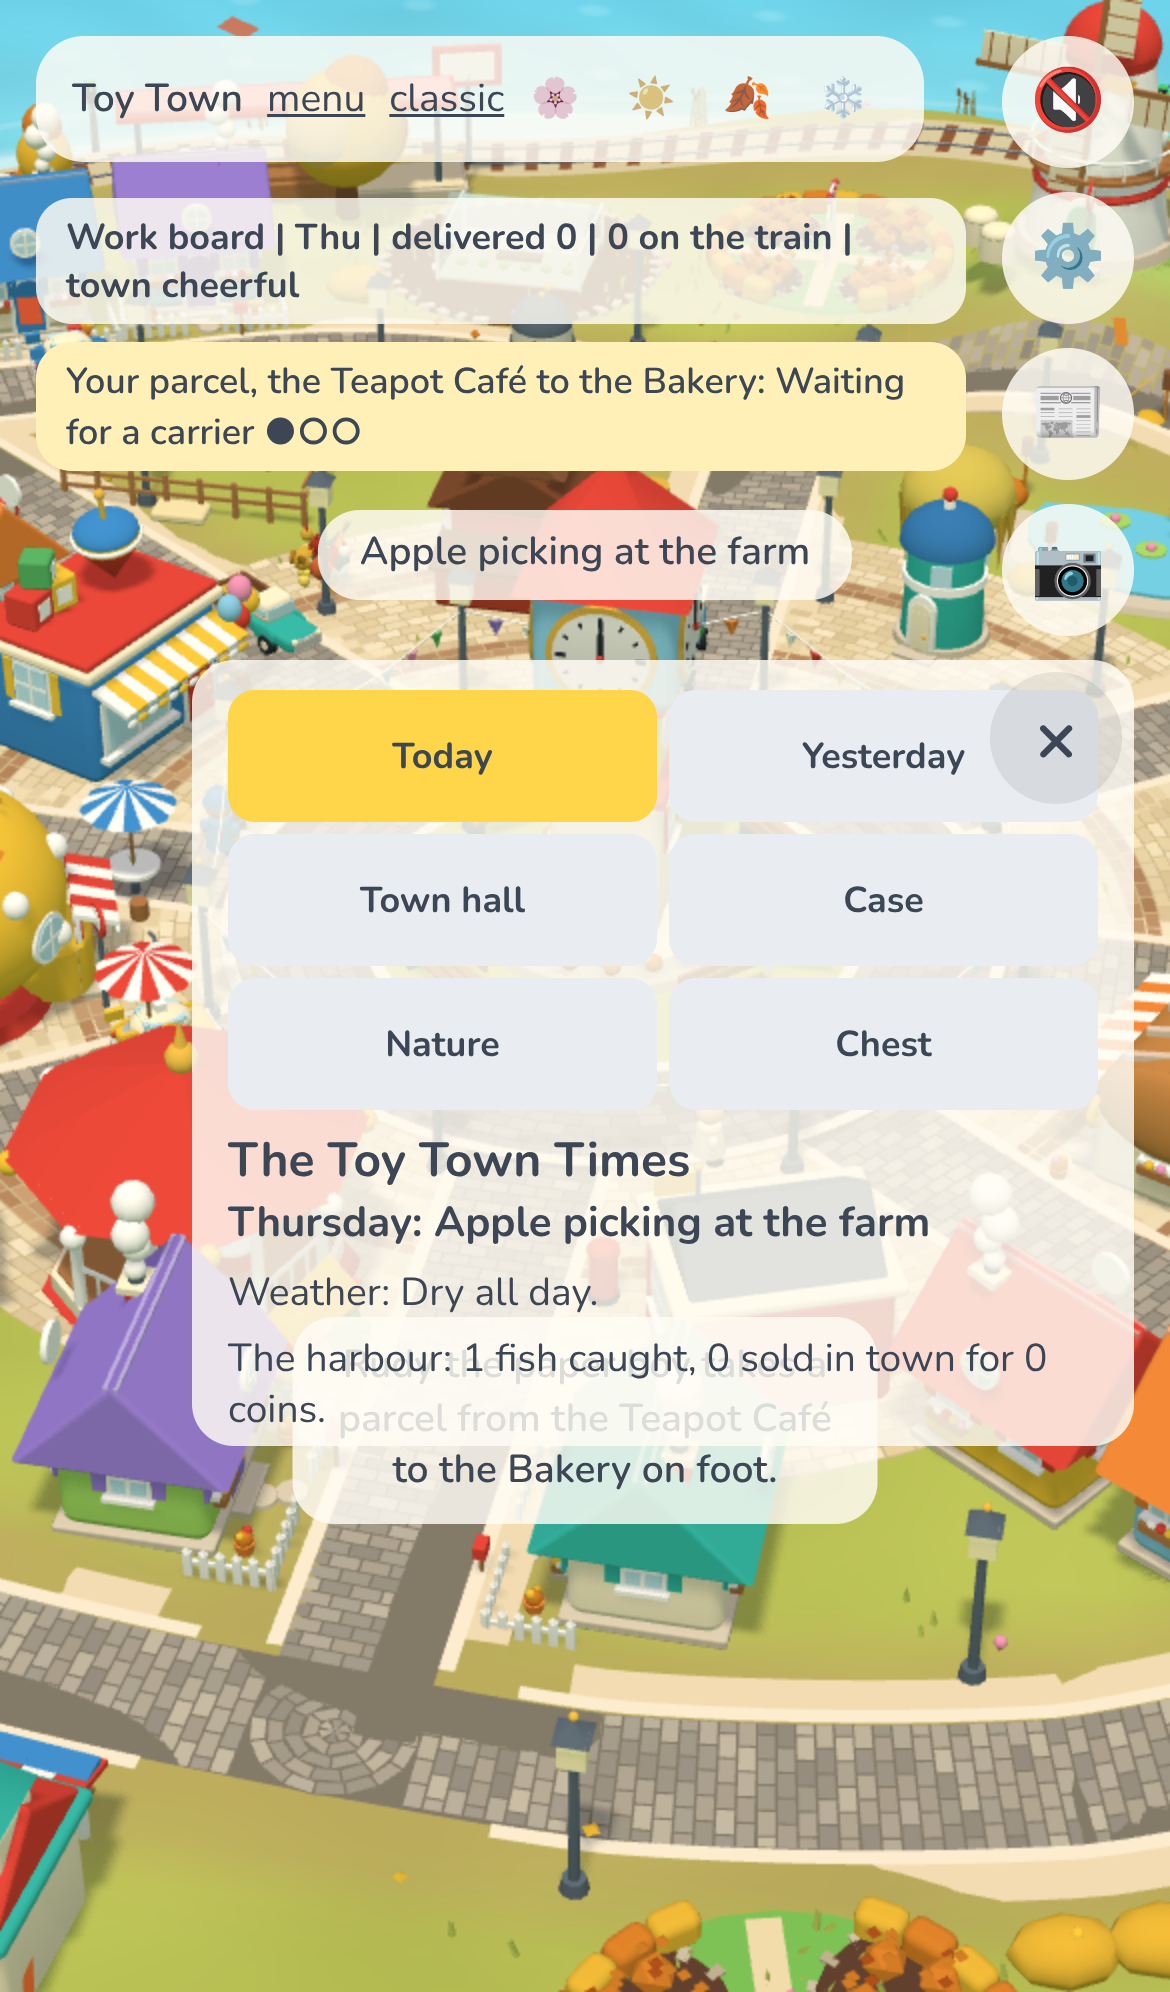
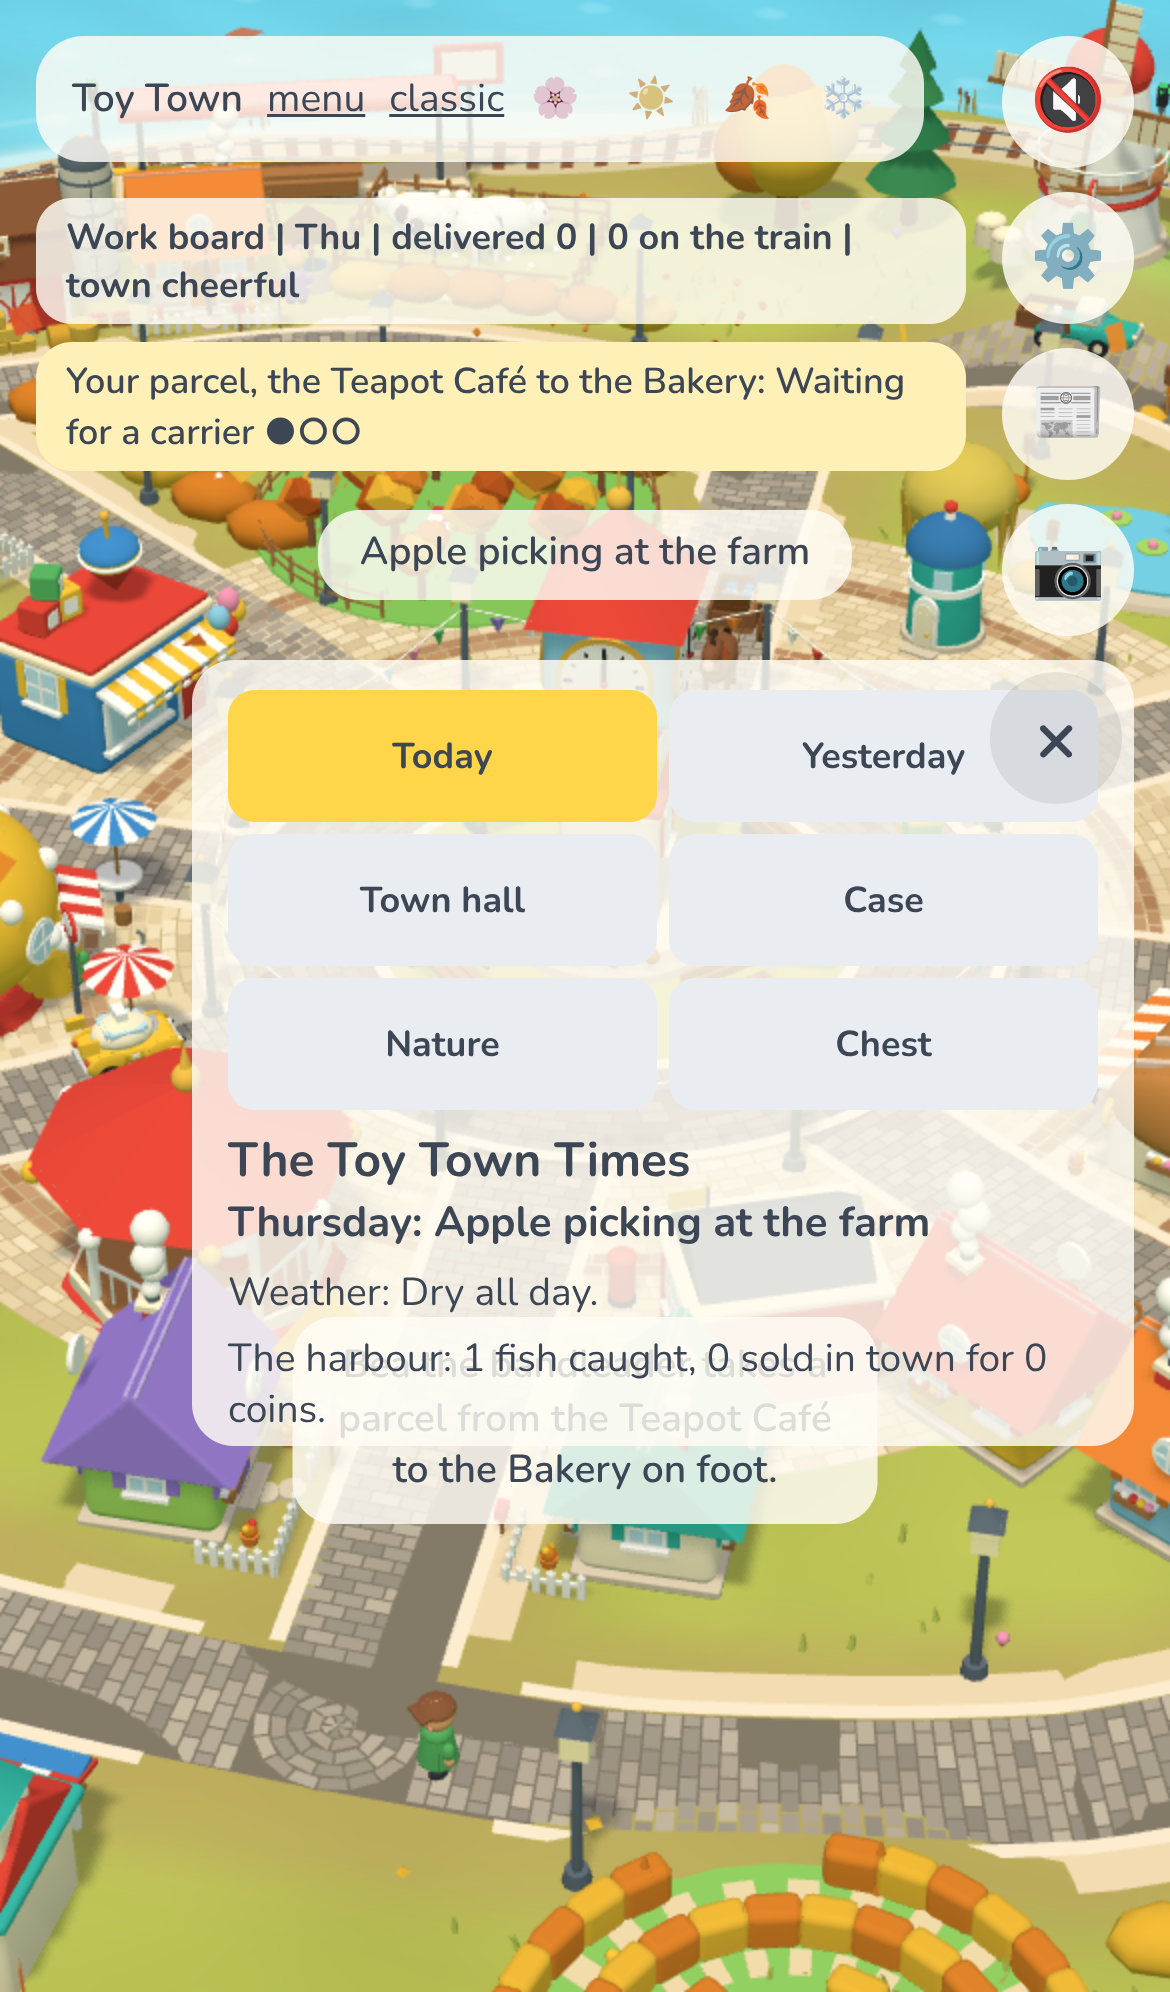
Toy Town Storybook: 10% smaller places, farm outside the town, seven varied gardens (#247)
* docs(toy-town): Claude START — fps readout and a day in the life

Claude-Session: https://claude.ai/code/session_016DDzLFPb4BuxMAThu2pji2

* Toy Town: a day in the life and a ?fps readout

- Hour of day from the town clock; morning commuters (briefcases) and children in pairs (smaller, backpacks) leave homes for the edge of town; lunch diners eat at the café tables; evening residents walk home and go in; porch lamps light after dusk once someone is home; ticker notes each part of the day. At most 8 scheduled walkers.
- ?fps overlay: fps, draw ms, render pixel ratio.
- Cache keys sim v30, 3D v49, embed v59.

Claude-Session: https://claude.ai/code/session_016DDzLFPb4BuxMAThu2pji2

* Toy Town: keep the day's walkers under the cap when children set off in pairs

Claude-Session: https://claude.ai/code/session_016DDzLFPb4BuxMAThu2pji2

* docs(toy-town): Claude START — follow a resident, feed the ducks, gentle sound

Claude-Session: https://claude.ai/code/session_016DDzLFPb4BuxMAThu2pji2

* docs(toy-town): Claude DONE — a day in the life and ?fps

Claude-Session: https://claude.ai/code/session_016DDzLFPb4BuxMAThu2pji2

* Toy Town: follow a resident, feed the ducks, gentle opt-in sound

- Press and hold a resident (mouse or touch, ~0.5 s) to follow them: the camera keeps them centred; a card shows a stable first name, their role and what they are doing; drag or ✕ stops.
- Tap the river: crumbs scatter and the ducks paddle over (they stay on the water).
[…]

diff --git a/toy-town-new.html b/toy-town-new.html
@@ -81,47 +81,47 @@ html.ui-off #set,html.ui-off #panel,html.ui-off #paperBtn,html.ui-off #photoBtn,
 #dbg{position:fixed;left:calc(8px + env(safe-area-inset-left,0px));bottom:calc(8px + env(safe-area-inset-bottom,0px));padding:3px 8px;border-radius:8px;background:rgba(0,0,0,.6);color:#fff;font:600 11px/1.3 ui-monospace,Menlo,Consolas,monospace;pointer-events:none;z-index:9}
 html.ui-off #stack,html.ui-off #jobs,html.ui-off #toast,html.ui-off #snd,html.ui-off #chip,html.ui-off #hint,html.ui-off #story,html.ui-off #card{display:none}
 </style>
-<script type="importmap" data-stamp="202dd8a203">
+<script type="importmap" data-stamp="fa706e2c50">
 {"imports":{
   "three":"https://cdn.jsdelivr.net/npm/three@0.187.0/build/three.module.js",
   "three/addons/":"https://cdn.jsdelivr.net/npm/three@0.187.0/examples/jsm/",
-  "./assets/town2/angling.mjs":"./assets/town2/angling.mjs?v=202dd8a203",
-  "./assets/town2/build.mjs":"./assets/town2/build.mjs?v=202dd8a203",
-  "./assets/town2/chest.mjs":"./assets/town2/chest.mjs?v=202dd8a203",
-  "./assets/town2/curve.mjs":"./assets/town2/curve.mjs?v=202dd8a203",
-  "./assets/town2/def.mjs":"./assets/town2/def.mjs?v=202dd8a203",
-  "./assets/town2/ecology.mjs":"./assets/town2/ecology.mjs?v=202dd8a203",
-  "./assets/town2/events.mjs":"./assets/town2/events.mjs?v=202dd8a203",
-  "./assets/town2/festival.mjs":"./assets/town2/festival.mjs?v=202dd8a203",
-  "./assets/town2/festscene.mjs":"./assets/town2/festscene.mjs?v=202dd8a203",
-  "./assets/town2/gait.mjs":"./assets/town2/gait.mjs?v=202dd8a203",
-  "./assets/town2/garden.mjs":"./assets/town2/garden.mjs?v=202dd8a203",
-  "./assets/town2/graph.mjs":"./assets/town2/graph.mjs?v=202dd8a203",
-  "./assets/town2/inspect.mjs":"./assets/town2/inspect.mjs?v=202dd8a203",
-  "./assets/town2/limbs.mjs":"./assets/town2/limbs.mjs?v=202dd8a203",
-  "./assets/town2/lives.mjs":"./assets/town2/lives.mjs?v=202dd8a203",
-  "./assets/town2/memory.mjs":"./assets/town2/memory.mjs?v=202dd8a203",
-  "./assets/town2/mystery.mjs":"./assets/town2/mystery.mjs?v=202dd8a203",
-  "./assets/town2/nature.mjs":"./assets/town2/nature.mjs?v=202dd8a203",
-  "./assets/town2/needs.mjs":"./assets/town2/needs.mjs?v=202dd8a203",
-  "./assets/town2/paper.mjs":"./assets/town2/paper.mjs?v=202dd8a203",
-  "./assets/town2/quality.mjs":"./assets/town2/quality.mjs?v=202dd8a203",
-  "./assets/town2/saga.mjs":"./assets/town2/saga.mjs?v=202dd8a203",
-  "./assets/town2/sail.mjs":"./assets/town2/sail.mjs?v=202dd8a203",
-  "./assets/town2/settings.mjs":"./assets/town2/settings.mjs?v=202dd8a203",
-  "./assets/town2/sim.mjs":"./assets/town2/sim.mjs?v=202dd8a203",
-  "./assets/town2/sky.mjs":"./assets/town2/sky.mjs?v=202dd8a203",
-  "./assets/town2/smoke.mjs":"./assets/town2/smoke.mjs?v=202dd8a203",
-  "./assets/town2/sound.mjs":"./assets/town2/sound.mjs?v=202dd8a203",
-  "./assets/town2/stories.mjs":"./assets/town2/stories.mjs?v=202dd8a203",
-  "./assets/town2/track.mjs":"./assets/town2/track.mjs?v=202dd8a203",
-  "./assets/town2/treasure.mjs":"./assets/town2/treasure.mjs?v=202dd8a203",
-  "./assets/town2/vote.mjs":"./assets/town2/vote.mjs?v=202dd8a203",
-  "./assets/town2/weather.mjs":"./assets/town2/weather.mjs?v=202dd8a203",
-  "./assets/town2/weather3d.mjs":"./assets/town2/weather3d.mjs?v=202dd8a203",
-  "./assets/town2/wild3d.mjs":"./assets/town2/wild3d.mjs?v=202dd8a203",
-  "./assets/town2/wildlife.mjs":"./assets/town2/wildlife.mjs?v=202dd8a203",
-  "./assets/town2/wildscene.mjs":"./assets/town2/wildscene.mjs?v=202dd8a203"
+  "./assets/town2/angling.mjs":"./assets/town2/angling.mjs?v=fa706e2c50",
+  "./assets/town2/build.mjs":"./assets/town2/build.mjs?v=fa706e2c50",
+  "./assets/town2/chest.mjs":"./assets/town2/chest.mjs?v=fa706e2c50",
+  "./assets/town2/curve.mjs":"./assets/town2/curve.mjs?v=fa706e2c50",
+  "./assets/town2/def.mjs":"./assets/town2/def.mjs?v=fa706e2c50",
+  "./assets/town2/ecology.mjs":"./assets/town2/ecology.mjs?v=fa706e2c50",
+  "./assets/town2/events.mjs":"./assets/town2/events.mjs?v=fa706e2c50",
+  "./assets/town2/festival.mjs":"./assets/town2/festival.mjs?v=fa706e2c50",
+  "./assets/town2/festscene.mjs":"./assets/town2/festscene.mjs?v=fa706e2c50",
+  "./assets/town2/gait.mjs":"./assets/town2/gait.mjs?v=fa706e2c50",
+  "./assets/town2/garden.mjs":"./assets/town2/garden.mjs?v=fa706e2c50",
+  "./assets/town2/graph.mjs":"./assets/town2/graph.mjs?v=fa706e2c50",
+  "./assets/town2/inspect.mjs":"./assets/town2/inspect.mjs?v=fa706e2c50",
+  "./assets/town2/limbs.mjs":"./assets/town2/limbs.mjs?v=fa706e2c50",
+  "./assets/town2/lives.mjs":"./assets/town2/lives.mjs?v=fa706e2c50",
+  "./assets/town2/memory.mjs":"./assets/town2/memory.mjs?v=fa706e2c50",
+  "./assets/town2/mystery.mjs":"./assets/town2/mystery.mjs?v=fa706e2c50",
+  "./assets/town2/nature.mjs":"./assets/town2/nature.mjs?v=fa706e2c50",
+  "./assets/town2/needs.mjs":"./assets/town2/needs.mjs?v=fa706e2c50",
+  "./assets/town2/paper.mjs":"./assets/town2/paper.mjs?v=fa706e2c50",
+  "./assets/town2/quality.mjs":"./assets/town2/quality.mjs?v=fa706e2c50",
+  "./assets/town2/saga.mjs":"./assets/town2/saga.mjs?v=fa706e2c50",
+  "./assets/town2/sail.mjs":"./assets/town2/sail.mjs?v=fa706e2c50",
+  "./assets/town2/settings.mjs":"./assets/town2/settings.mjs?v=fa706e2c50",
+  "./assets/town2/sim.mjs":"./assets/town2/sim.mjs?v=fa706e2c50",
+  "./assets/town2/sky.mjs":"./assets/town2/sky.mjs?v=fa706e2c50",
+  "./assets/town2/smoke.mjs":"./assets/town2/smoke.mjs?v=fa706e2c50",
+  "./assets/town2/sound.mjs":"./assets/town2/sound.mjs?v=fa706e2c50",
+  "./assets/town2/stories.mjs":"./assets/town2/stories.mjs?v=fa706e2c50",
+  "./assets/town2/track.mjs":"./assets/town2/track.mjs?v=fa706e2c50",
+  "./assets/town2/treasure.mjs":"./assets/town2/treasure.mjs?v=fa706e2c50",
+  "./assets/town2/vote.mjs":"./assets/town2/vote.mjs?v=fa706e2c50",
+  "./assets/town2/weather.mjs":"./assets/town2/weather.mjs?v=fa706e2c50",
+  "./assets/town2/weather3d.mjs":"./assets/town2/weather3d.mjs?v=fa706e2c50",
+  "./assets/town2/wild3d.mjs":"./assets/town2/wild3d.mjs?v=fa706e2c50",
+  "./assets/town2/wildlife.mjs":"./assets/town2/wildlife.mjs?v=fa706e2c50",
+  "./assets/town2/wildscene.mjs":"./assets/town2/wildscene.mjs?v=fa706e2c50"
 }}
 </script>
 </head>
@@ -143,7 +143,7 @@ html.ui-off #stack,html.ui-off #jobs,html.ui-off #toast,html.ui-off #snd,html.ui
 <div id="fail"><div>The new town could not start.<br><a href="toy-town.html">Open the current town</a>, or try a hard refresh (Ctrl+F5).<br><small id="why"></small><br><small>If it mentions WebGL, turn on hardware acceleration in the browser's settings (in Edge: edge://settings/system).</small></div></div>
 <script>if(/[?&]clean=1\b/.test(location.search))document.documentElement.classList.add('ui-off');</script>
 <script type="module">
-  import('./assets/town2/main.mjs?v=202dd8a203').catch(e => { console.error(e); document.getElementById('why').textContent = (e && (e.name + ': ' + e.message)) || String(e); document.getElementById('fail').style.display = 'flex'; });
+  import('./assets/town2/main.mjs?v=fa706e2c50').catch(e => { console.error(e); document.getElementById('why').textContent = (e && (e.name + ': ' + e.message)) || String(e); document.getElementById('fail').style.display = 'flex'; });
 </script>
 </body>
 </html>

diff --git a/TOY_TOWN_COLLAB.md b/TOY_TOWN_COLLAB.md
@@ -1379,3 +1379,13 @@ A `START` does not prohibit parallel edits. Avoid stepping on each other's uncom
 - **Bugs caught**: `clamp` argument order in gait.mjs (stride amplitude was unbounded), found by the new test.
 - **Not verified**: a real phone; the horse's gait at speed (it moves slowly); sitting and sleeping poses of animals were only lightly checked. Draw calls at the default view 95 (limit 100).
 
+
+### 2026-11-12 · Claude · START (new storybook town, follow-up 23: smaller places, the barn outside the town, fewer and more varied gardens)
+- **Base**: master ae0ca6b. **Request (owner, caps)**: "reduce the sizes of places by 10%; not happy with the barn inside the town, keep it outside by removing the gardens; too many gardens and all look the same: reduce them, enlarge the area a bit, bring in more changes." **Plan**: BUILD_SCALE .8 -> .72 (layout solver reflows); the barn, Hay Farm, the paddock and the hen coop move out to the belt between the ring road and the railway (a short farm lane off the ring road), the gardens that were there go; about six larger gardens, each with its own design (rose pavilion, orchard, allotment with scarecrow and shed, hedge maze, water garden, wildflower field) instead of one hedge-ring layout re-coloured. Tests and screenshots as always.
+
+### 2026-11-12 · Claude · DONE (new storybook town, follow-up 23: smaller places, farm outside, fewer varied gardens)
+- **Request (owner)**: places 10% smaller; the barn outside the town (remove the gardens there); fewer, larger, more varied gardens. **Done**: spec section 4e. `BUILD_SCALE` .72; barn, Hay Farm, paddock and hen yard moved to the belt outside the ring road; seven gardens with seven designs (orchard, maze, water garden, rose pavilion, wildflower field with hives, allotment, greenhouse).
+- **Side effects fixed on the way**: the harbour boat could not reach the rock landing from one approach (the rock's margin caught it just short; added a small apron and a look-ahead that stops at the target; the mooring now steps out if the shoreline wobbles); the milk float is faster and its round starts with the west cottages (the barn is further out); the vehicle gap threshold is .25 (a pick-up and a taxi touch for a moment at one junction at 94 s; not chased).
+- **Tests**: logic and browser suites pass (93 draw calls); close-ups of every garden in summer, and of the orchard, water garden and pavilion in winter and spring, checked by hand.
+- **Not verified**: a real phone; autumn gardens (only the code path); the pick-up and taxi near-touch.
+

diff --git a/TOY_TOWN_NEW_SPEC.md b/TOY_TOWN_NEW_SPEC.md
@@ -215,6 +215,10 @@ Every street, the ring road and the junction patches are paved with individual s
 
 People, dogs, cats, hens, chicks and the farm horse (and its cart wheels) have limbs. Each is still ONE merged mesh and one draw call: every vertex of a leg, arm, head or tail carries a pivot and a kind (`limbs.mjs`), and a small vertex shader swings it from the walker's gait (`gait.mjs`, pure and tested). The stride is driven by the distance covered (so feet never skate), its length grows with speed (running people and trotting dogs take longer strides), and the legs settle when the walker stops. People: legs in opposite phase to arms, a step bob, a small lean and sway. Dogs, cats and the horse: legs in diagonal pairs with a foot lift, the head nods, the tail wags faster on the move. Hens: quick short steps, the head nods, and a peck dips the head (not the whole body). Hens (6, bigger than before) and four chicks live in two yards: the coop yard and a run by the farm door. The animals were hidden at the default phone zoom (the camera is 92 units out there and the cut-off was 80) and on the low picture tier; both are fixed (the cut-off is 110, `life` is on for low). The light version for TVs leaves out the chicks.
 
+## 4e. Scale, the farm outside the town, and the gardens
+
+Buildings are drawn 10% smaller (`BUILD_SCALE` .72); the layout solver in `def.mjs` reflows every house along the same streets. The farm lives outside the town: the barn and Hay Farm stand on the outer side of the ring road in the north-west, the paddock is the open patch of the belt nearest the barn (`PADDOCK` is filled in by the solver), and the hen yard and the farm run are beside them (`wildscene.mjs`). `garden.mjs` now picks seven big gardens (radius up to 2.1) spread round the island and keeps them clear of the farm and of the railway stations: an orchard (fruit trees in rows, a picnic blanket), a hedge maze with a fountain, a water garden (pond, lily pads, reeds, stepping stones, willow), a rose pavilion (gazebo, rose beds, rose arch), a wildflower field with three beehives, an allotment (raised beds, shed, scarecrow, barrow) and the greenhouse. Each has its own builder in `wild3d.mjs` and its own seasons (blossom, apples, russet leaves, frost and a frozen pond). The old twelve circular hedge gardens that differed only by flower colour are gone. Bees visit the pavilion, orchard and wildflower field.
+
 ## 5. Art rules
 
 - Fat, rounded, slightly wonky. No sharp corners: `bag.box` is a rounded box; roofs overhang.
